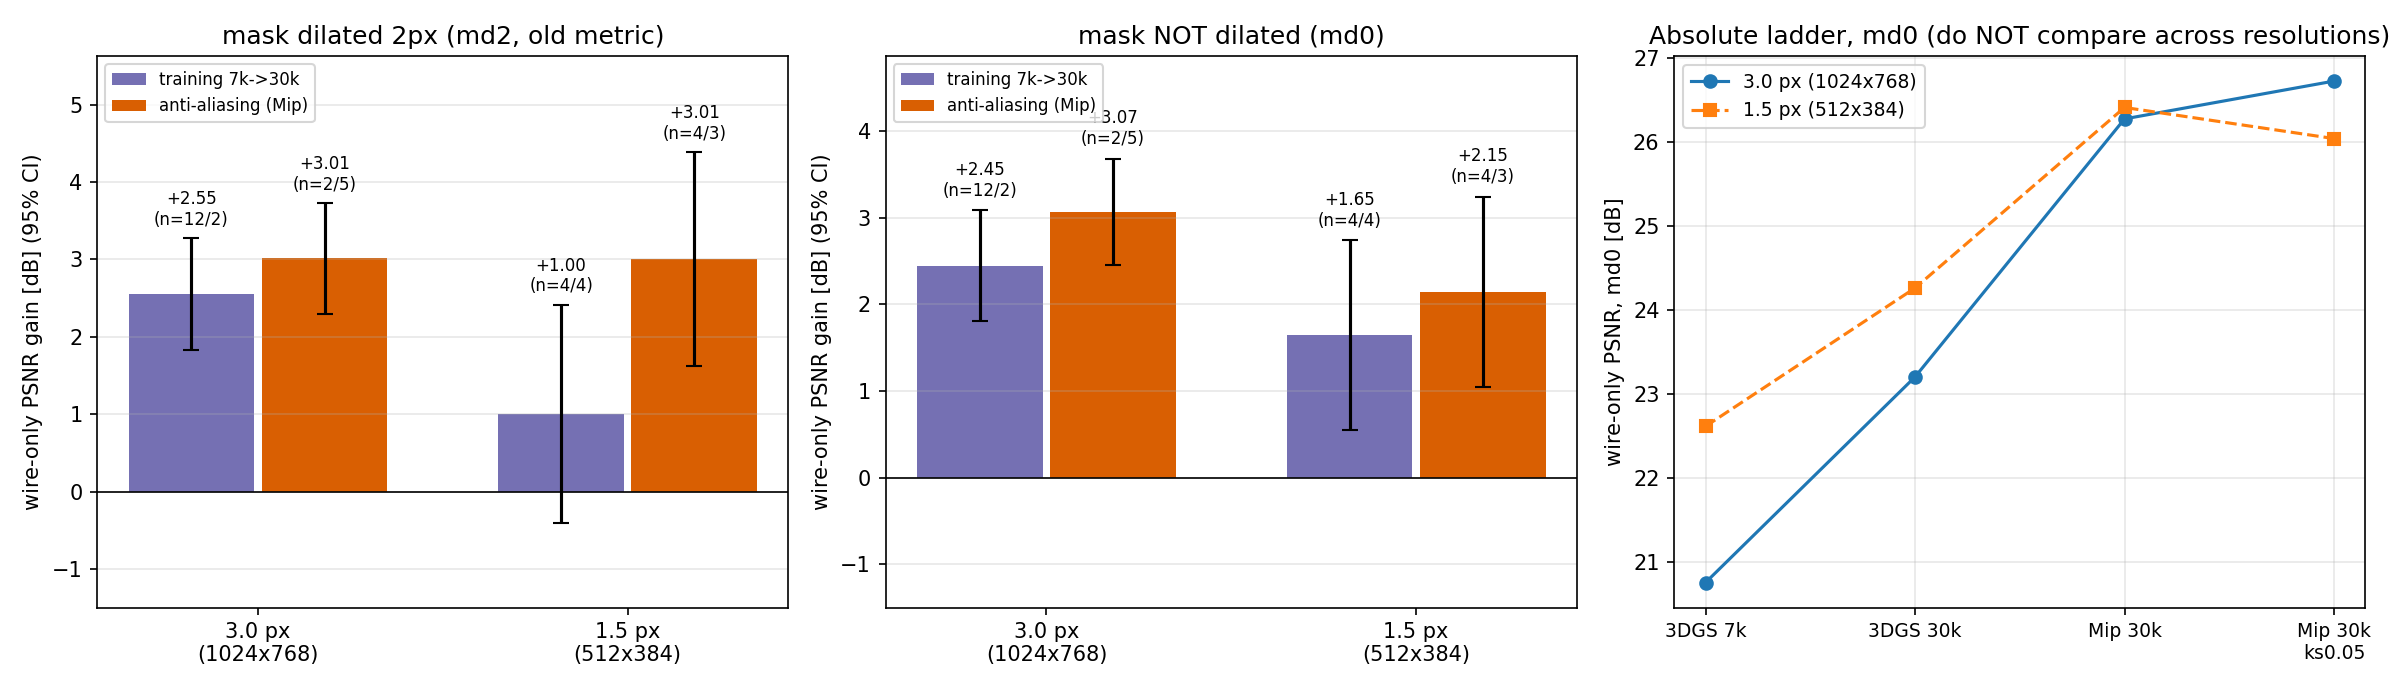
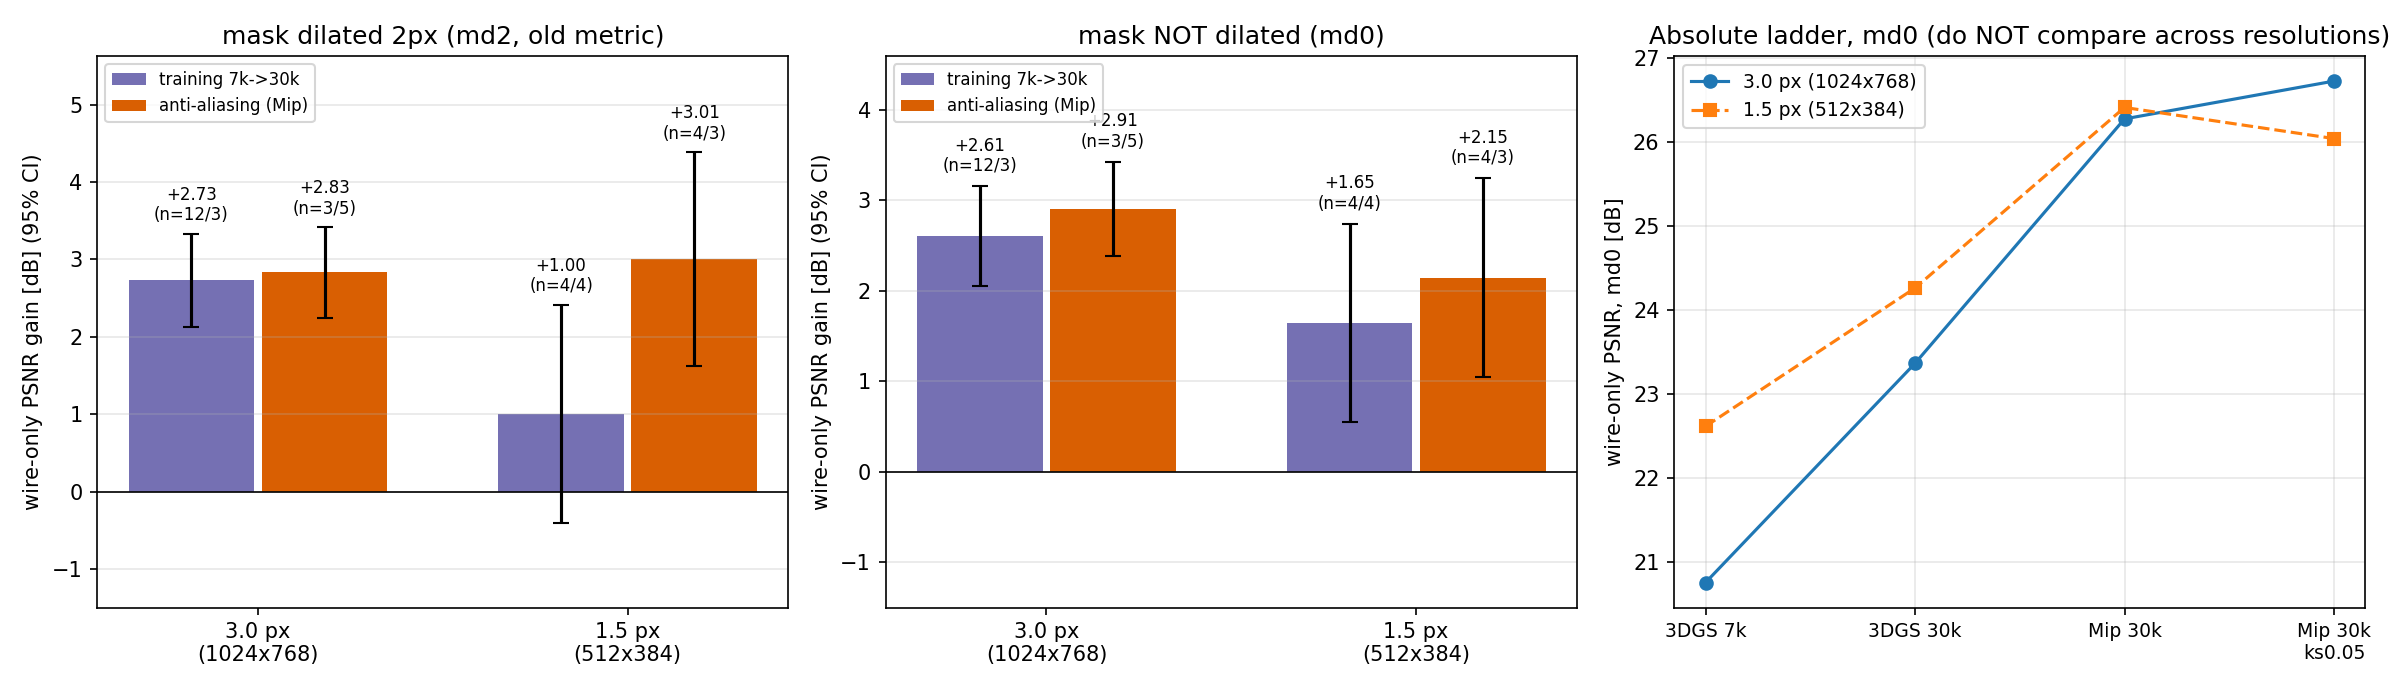
wirebench: 床なしGT（4096spp・デノイズ無し）で学習延長・AA・選択性を測り直し（監査R-03/R-14・修正計画C3、研究メモ§9ar-5）
- collect_resolution.py に gt 列（denoise64/clean4096）と *_clean 実験を追加。図は従来GTのみで描く
- c3_selectivity.sh：thin−edge_other を両GTの全runで測る
- eval_wires.py：比較図のクロップが画像端で欠けて落ちるのを修正（数値は不変）

床なしGTでも 3px で学習 +2.45・AA +3.17、選択性 −4.5dB が残る。デノイザ床は 3px で約0.5dB。

Claude-Session: https://claude.ai/code/session_01PF8XSjjk2uwi17Y1HU4fY9

diff --git a/research/wirebench/collect_resolution.py b/research/wirebench/collect_resolution.py
@@ -3,6 +3,8 @@
 #   res512 では 2px 膨張マスクの約72%が背景画素になり、「1.5pxでは学習延長が無効」は md2 でしか出ない。
 #   md0 の summary が無い run は eval_wires.py --mask-dilate 0 をその場で実行する。
 # 対象 run は下の RUNS（glob）で決める。追加run（C2/C3 の _r3 等）は命名規則に合えば自動で拾う。
+# 2026-09-25（監査R-03・修正計画C3）：床なしGT（4096spp・デノイズ無し）の *_clean 実験を gt=clean4096 として追加。
+#   従来の64spp＋デノイザGTは gt=denoise64。plot_resolution.py は denoise64 だけで図を描く。
 # 使い方: python3 collect_resolution.py   → resolution_results.csv（plot_resolution.py が読む）
 import csv
 import json
@@ -13,7 +15,7 @@ from pathlib import Path
 E = Path("/workspace/experiments")
 HERE = Path(__file__).parent
 
-# (実験, 解像度ラベル, 見かけ幅p50, モデル種別, iter, モデルdirのglob)
+# (実験, 解像度ラベル, 見かけ幅p50, モデル種別, iter, モデルdirのglob)。実験名が _clean で終わるものは gt=clean4096
 RUNS = [
     ("20260704_wb_r15mm_f80_open", "1024x768", 3.0, "3dgs", 7000,
      ["output_gen_newdef_r*", "output_gen_noexp_r*", "output_gen_old_r*", "output_gen_oplr05_r*"]),
@@ -26,6 +28,12 @@ RUNS = [
     ("20260907_wb_r15mm_f80_open_res512", "512x384", 1.51, "3dgs", 30000, ["output_3dgs30000", "output_3dgs30000_r*"]),
     ("20260907_wb_r15mm_f80_open_res512", "512x384", 1.51, "mip_ks0.1", 30000, ["output_mip30k_ks01", "output_mip30k_ks01_r*"]),
     ("20260907_wb_r15mm_f80_open_res512", "512x384", 1.51, "mip_ks0.05", 30000, ["output_mip30k_ks005"]),
+    ("20260924_wb_r15mm_f80_open_clean", "1024x768", 3.0, "3dgs", 7000, ["output_3dgs7k_r*"]),
+    ("20260924_wb_r15mm_f80_open_clean", "1024x768", 3.0, "3dgs", 30000, ["output_3dgs30k_r*"]),
+    ("20260924_wb_r15mm_f80_open_clean", "1024x768", 3.0, "mip_ks0.1", 30000, ["output_mip30k_r*"]),
+    ("20260924_wb_r15mm_f80_open_res512_clean", "512x384", 1.51, "3dgs", 7000, ["output_3dgs7k_r*"]),
+    ("20260924_wb_r15mm_f80_open_res512_clean", "512x384", 1.51, "3dgs", 30000, ["output_3dgs30k_r*"]),
+    ("20260924_wb_r15mm_f80_open_res512_clean", "512x384", 1.51, "mip_ks0.1", 30000, ["output_mip30k_r*"]),
 ]
 
 
@@ -46,7 +54,7 @@ for exp, res, px, kind, it, globs in RUNS:
         models += sorted(p.name for p in (E / exp).glob(g) if (p / "test" / f"ours_{it}" / "renders").exists())
     for seed, m in enumerate(dict.fromkeys(models), 1):
         a, b = summary(exp, m, it, 2), summary(exp, m, it, 0)
-        rows.append({"exp": exp, "res": res, "wire_px_p50": px, "model": kind, "iters": it, "seed": seed,
+        rows.append({"exp": exp, "gt": "clean4096" if exp.endswith("_clean") else "denoise64", "res": res, "wire_px_p50": px, "model": kind, "iters": it, "seed": seed,
                      "model_dir": m,
                      "psnr_wireonly": round(a["psnr_wireonly"], 2), "psnr_bar": round(a["psnr_bar"], 2),
                      "psnr_thin_mixed": round(a["psnr_wire"], 2), "psnr_bg": round(a["psnr_bg"], 2),
@@ -54,7 +62,7 @@ for exp, res, px, kind, it, globs in RUNS:
                      "disappearance_rate": round(a["disappearance_rate"], 3),
                      "psnr_wireonly_md0": round(b["psnr_wireonly"], 2), "psnr_bar_md0": round(b["psnr_bar"], 2),
                      "gap_wireonly_md0_db": round(b["gap_wireonly_db"], 2)})
-        print(f"{exp[-22:]:22s} {kind:10s} {it:6d} {m:28s} md2 {rows[-1]['psnr_wireonly']:6.2f}  md0 {rows[-1]['psnr_wireonly_md0']:6.2f}")
+        print(f"{exp[-28:]:28s} {kind:10s} {it:6d} {m:28s} md2 {rows[-1]['psnr_wireonly']:6.2f}  md0 {rows[-1]['psnr_wireonly_md0']:6.2f}")
 
 with open(HERE / "resolution_results.csv", "w", newline="") as f:
     w = csv.DictWriter(f, fieldnames=list(rows[0].keys()))

diff --git a/research/wirebench/eval_wires.py b/research/wirebench/eval_wires.py
@@ -344,7 +344,10 @@ def main():
         for ci, q in enumerate([0.3, 0.7]):
             cy, cx = int(np.quantile(ys, q)), int(np.quantile(xs, q))
             h, w = 140, 240
-            y0, x0 = max(cy - h // 2, 0), max(cx - w // 2, 0)
+            # 画像端でクロップが欠けないよう画像内に収める（2026-09-25：res512 で下端に掛かり hstack が落ちた）
+            h, w = min(h, gt.shape[0]), min(w, gt.shape[1])
+            y0 = min(max(cy - h // 2, 0), gt.shape[0] - h)
+            x0 = min(max(cx - w // 2, 0), gt.shape[1] - w)
             gtc = gt[y0:y0 + h, x0:x0 + w]
             rnc = ren[y0:y0 + h, x0:x0 + w]
             z = 3

diff --git a/research/wirebench/plot_resolution.py b/research/wirebench/plot_resolution.py
@@ -21,6 +21,7 @@ import numpy as np
 
 HERE = Path(__file__).parent
 rows = list(csv.DictReader(open(HERE / "resolution_results.csv")))
+rows = [r for r in rows if r.get("gt", "denoise64") == "denoise64"]  # 床なしGT（C3）は §9ar で別に集計
 
 def collect(col):
     v = defaultdict(list)          # (px, model, iters) -> [PSNR]
